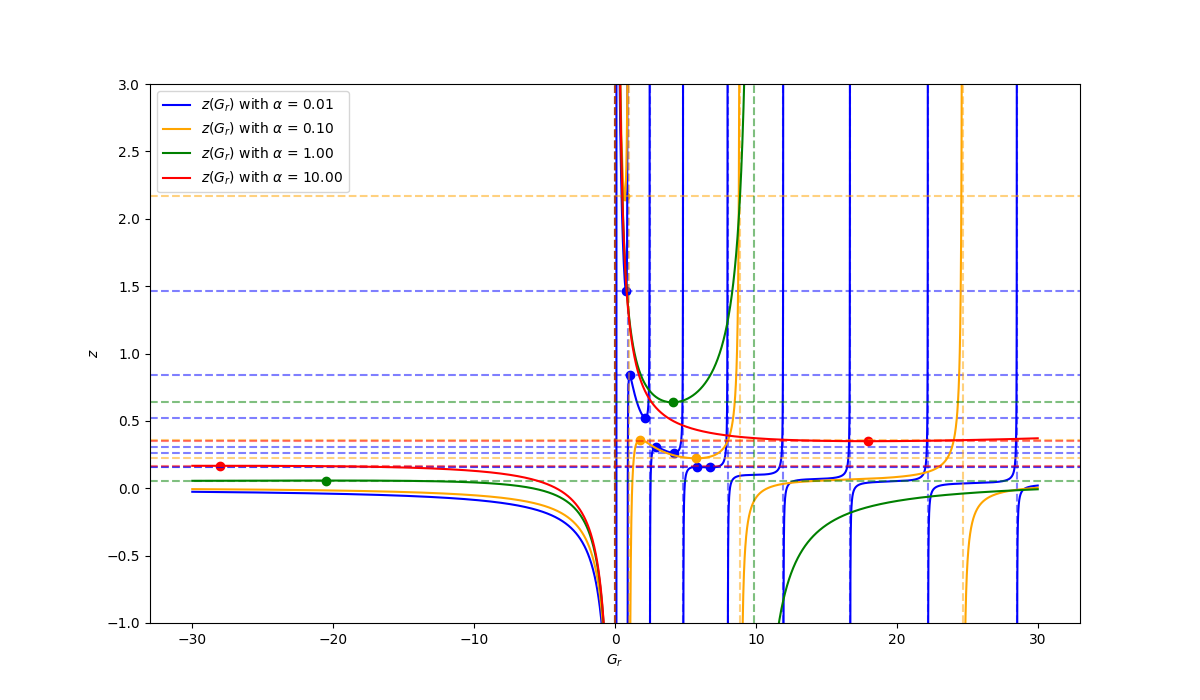
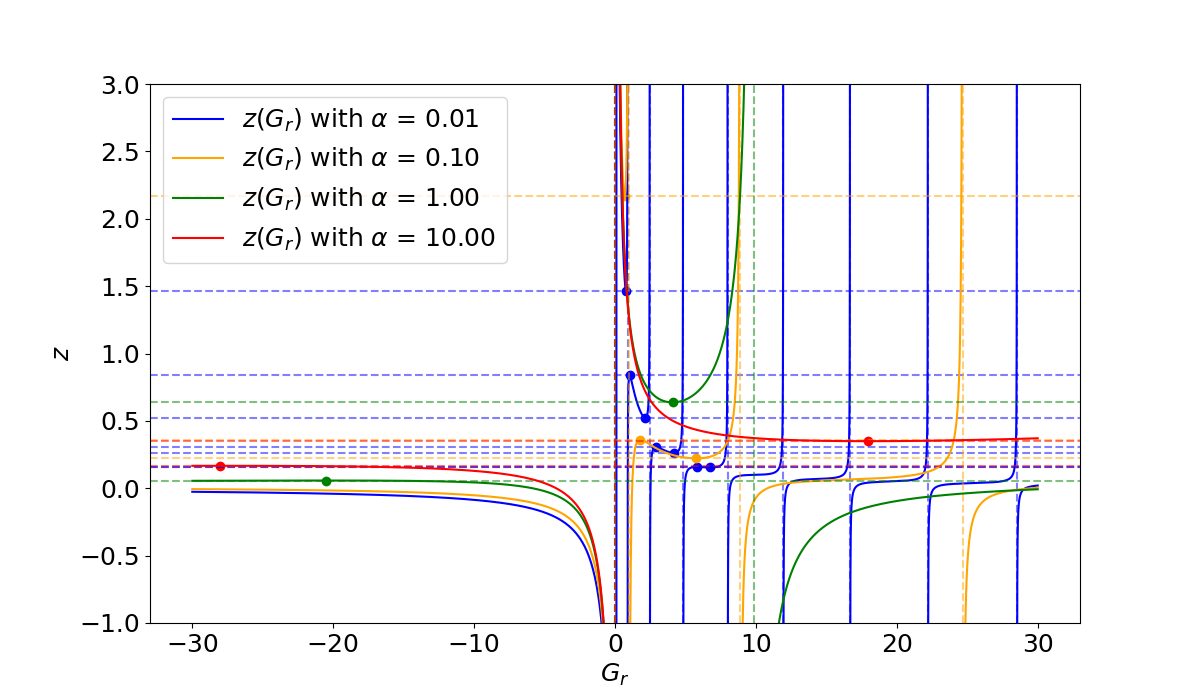
resi grafici più belli e band gaps

diff --git a/teoria_RMT/forbidden_intervals.py b/teoria_RMT/forbidden_intervals.py
@@ -1,0 +1,171 @@
+import numpy as np
+import matplotlib.pyplot as plt
+import seaborn as sns
+from scipy.optimize import root, brentq
+plt.rcParams.update({'font.size': 18})
+
+def resolvent_system(x,z,alpha,gamma_k):
+    gi,gr=x
+    den=(alpha-gr*gamma_k)**2+(gi*gamma_k)**2
+    frac1=np.sum(alpha*gamma_k**2/den)
+    frac2=np.sum(gamma_k*alpha**2/den)
+    F1=frac1-1/(gr**2+gi**2)
+    F2=frac2-z
+    return np.array([F1,F2])
+
+def eigenvalues_real(real_resolvent,alpha,fourier):
+    frac=np.sum(fourier*alpha/(alpha-fourier*real_resolvent))
+    return frac+1/real_resolvent
+
+def first_derivative(real_resolvent,alpha,fourier):
+    frac=np.sum(fourier**2*alpha/(alpha-real_resolvent*fourier)**2)
+    return frac-1/real_resolvent**2
+
+alpha = np.logspace(-3, 1, 10)
+phi_0=0.2
+k_modes=np.arange(1,50)
+Gamma_k=(1.0-(-1.0)**k_modes)/(2.0*(np.pi*k_modes)**2)
+Gamma_k=np.concatenate([Gamma_k,Gamma_k])
+gamma_hat_0=phi_0-1/4
+
+g_min=-1000
+g_max=1000
+
+def get_poles(alpha,gamma_k,g_min,g_max):
+    gamma_nonzero=gamma_k[np.abs(gamma_k)>1e-14]
+    poles=alpha/gamma_nonzero
+    poles=poles[(poles>g_min)&(poles<g_max)]
+    poles=np.append(poles,0.0)
+    return np.unique(np.sort(poles))
+
+
+def find_seed(z,alpha,gamma_k,g_left,g_right):
+    gi_guesses=[-1e-3,-1e-2,-0.1,-0.5,-1,-2,-5,-10,-20,-50,-100]
+    gr_guesses=[g_left,g_right,(g_left+g_right)/2,0]
+    for gi0 in gi_guesses:
+        for gr0 in gr_guesses:
+            sol=root(resolvent_system,[gi0,gr0],args=(z,alpha,gamma_k))
+            if not sol.success:
+                continue
+            gi,gr=sol.x
+            residual=np.linalg.norm(resolvent_system(sol.x,z,alpha,gamma_k))
+            if residual<1e-7 and abs(gi)>1e-7:
+                if gi>0:
+                    gi=-gi
+                return np.array([gi,gr])
+    return None
+
+def solve_band(z_min,z_max,g_left,g_right,alpha,gamma_k,npoints=1000):
+    delta=min(1e-4,(z_max-z_min)*1e-4)
+    z_left=z_min+delta
+    z_right=z_max-delta
+    z_mid=(z_left+z_right)/2
+    seed=find_seed(z_mid,alpha,gamma_k,g_left,g_right)
+
+    if seed is None:
+        print("Nessun seed trovato:",alpha,z_min,z_max)
+        return np.array([]),np.array([])
+
+    n_left=npoints//2
+    n_right=npoints-n_left
+    z_values_left=np.linspace(z_mid,z_left,n_left)
+    z_values_right=np.linspace(z_mid,z_right,n_right)
+
+    z_solution_left=[]
+    rho_left=[]
+    guess=seed.copy()
+
+    for z in z_values_left:
+        sol=root(resolvent_system,guess,args=(z,alpha,gamma_k))
+        if not sol.success:
+            break
+        gi,gr=sol.x
+        if gi>0:
+            gi=-gi
+        if abs(gi)<1e-10:
+            break
+        z_solution_left.append(z)
+        rho_left.append(-gi/np.pi)
+        guess=np.array([gi,gr])
+
+    z_solution_right=[]
+    rho_right=[]
+    guess=seed.copy()
+
+    for z in z_values_right[1:]:
+        sol=root(resolvent_system,guess,args=(z,alpha,gamma_k))
+        if not sol.success:
+            break
+        gi,gr=sol.x
+        if gi>0:
+            gi=-gi
+        if abs(gi)<1e-10:
+            break
+        z_solution_right.append(z)
+        rho_right.append(-gi/np.pi)
+        guess=np.array([gi,gr])
+
+    z_solution=np.concatenate((np.array(z_solution_left)[::-1],np.array(z_solution_right)))
+    rho_solution=np.concatenate((np.array(rho_left)[::-1],np.array(rho_right)))
+    return z_solution,rho_solution
+
+
+plt.figure(figsize=(12,6))
+plt.title(r'$\alpha$ vs $z$')
+colors = plt.cm.viridis(np.linspace(0.15, 0.85, len(alpha)))
+label_i = True
+for index in range(len(alpha)):
+    edge_data=[]
+    poles=get_poles(alpha[index],Gamma_k,g_min,g_max)
+    boundaries=np.concatenate(([g_min],poles,[g_max]))
+    eps=1e-5
+
+    for left,right in zip(boundaries[:-1],boundaries[1:]):
+        a=left+eps
+        b=right-eps
+        if a>=b:
+            continue
+
+        g_values=np.linspace(a,b,3000)
+        der_values=np.array([first_derivative(g,alpha[index],Gamma_k) for g in g_values])
+
+        for j in range(len(g_values)-1):
+            if not np.isfinite(der_values[j]) or not np.isfinite(der_values[j+1]):
+                continue
+
+            if der_values[j]*der_values[j+1]<0:
+                roo=brentq(first_derivative,g_values[j],g_values[j+1],args=(alpha[index],Gamma_k))
+                estremo=eigenvalues_real(roo,alpha[index],Gamma_k)
+
+                if estremo>0 and not any(abs(estremo-e[0])<1e-7 for e in edge_data):
+                    edge_data.append((estremo,roo))
+
+    edge_data.sort(key=lambda x:x[0])
+
+    intervals=np.array([e[0] for e in edge_data])
+    gr_guess=np.array([e[1] for e in edge_data])
+
+    print("\nalpha =",alpha[index])
+    print("intervals =",intervals)
+    print("gr_guess =",gr_guess)
+
+
+    for j in range(0,len(intervals)-1,2):
+        z_min = intervals[j]
+        z_max = intervals[j+1]
+        plt.vlines(x=alpha[index],ymin=z_min,ymax=z_max, color=colors[index],linewidth=2,alpha=0.8, label = 'forbidden intervals' if label_i else None )
+        label_i = False
+   
+
+plt.xlabel(r'$\alpha$')
+plt.ylabel(r'$z$')
+plt.xscale('log')
+plt.yscale('log')
+plt.legend()
+plt.savefig('alpha_i.png')
+plt.show()
+
+
+
+
+  

diff --git a/teoria_RMT/general_monasson_sol.py b/teoria_RMT/general_monasson_sol.py
@@ -2,6 +2,16 @@ import numpy as np
 import matplotlib.pyplot as plt
 import seaborn as sns
 from scipy.optimize import root, brentq
+plt.rcParams.update({
+    'font.size': 13,
+    'axes.titlesize': 16,
+    'axes.labelsize': 15,
+    'xtick.labelsize': 12,
+    'ytick.labelsize': 12,
+    'legend.fontsize': 11,
+    'mathtext.fontset': 'stix',
+})
+
 
 def resolvent_system(x,z,alpha,gamma_k):
     gi,gr=x
@@ -184,7 +194,7 @@ for index in range(len(alpha)):
 
     axs[index].hist(
         eigvals,
-        bins=10000,
+        bins=1000,
         density=True,
         alpha=0.5,
         label=fr"ERM SIMULATION ($N={N_values[index]}$, 50 toys)"+"\n"+
@@ -197,6 +207,7 @@ for index in range(len(alpha)):
     axs[index].set_ylabel("Density")
     axs[index].set_title(fr"$\alpha={alpha[index]:.2f}$, $N={N_values[index]}$, $L={L_values[index]}$")
     axs[index].legend()
-
+    
 plt.tight_layout()
+plt.savefig('complete_simulation.png')
 plt.show()

diff --git a/teoria_RMT/monasson_sol.py b/teoria_RMT/monasson_sol.py
@@ -3,6 +3,8 @@ import matplotlib.pyplot as plt
 import seaborn as sns 
 from scipy.optimize import root
 from scipy.optimize import brentq
+plt.rcParams.update({'font.size': 18})
+
 
 def resolvent_system(x, z, alpha, gamma_k):
     gi, gr = x

diff --git a/teoria_RMT/complex_eq.py b/teoria_RMT/complex_eq.py
@@ -3,6 +3,8 @@ import matplotlib.pyplot as plt
 import seaborn as sns 
 from scipy.stats import norm
 from scipy.optimize import brentq
+plt.rcParams.update({'font.size': 18})
+
 
 
 
